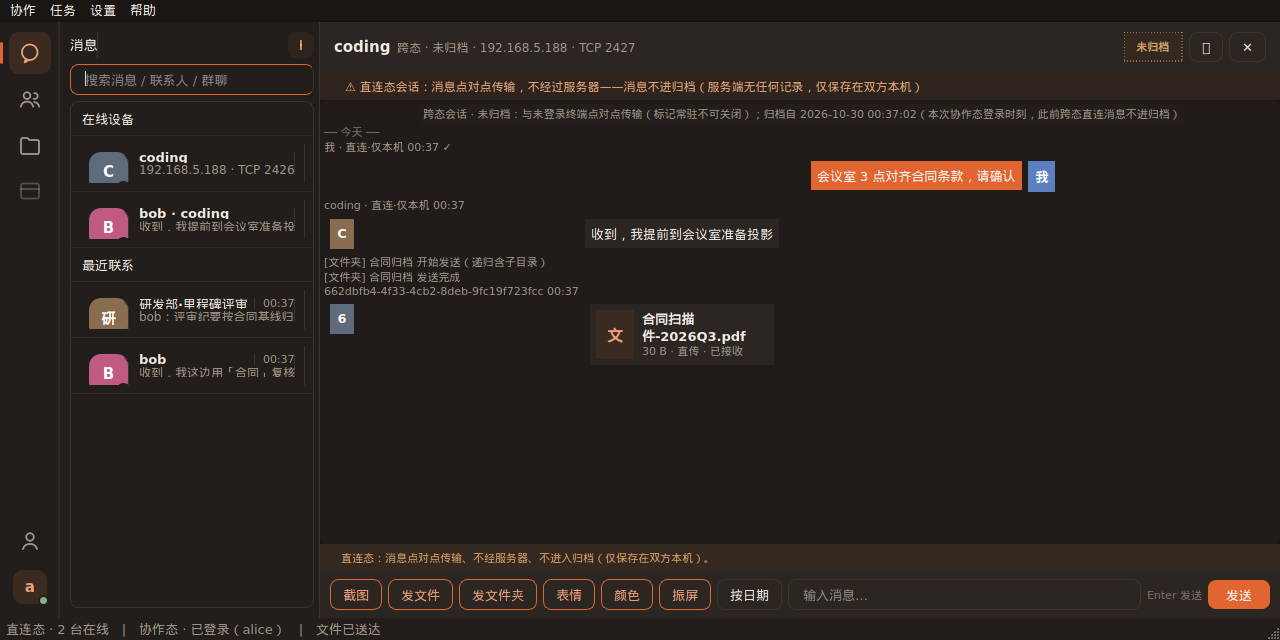
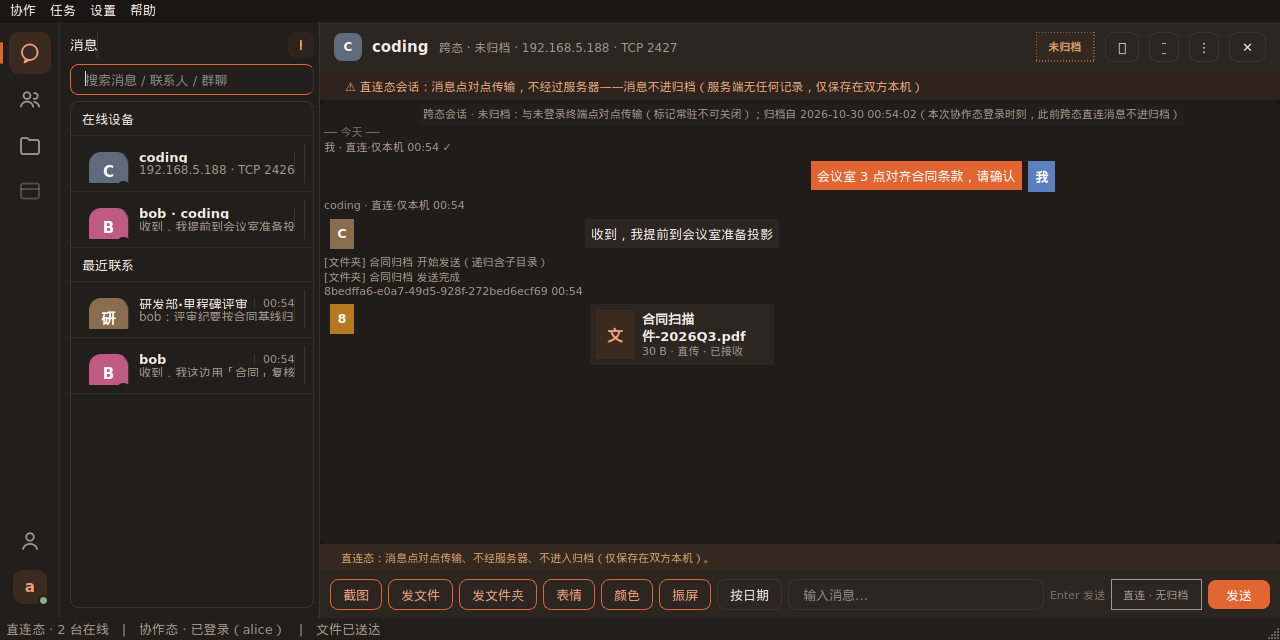
ui: align direct chat panel with desktop-direct-chat prototype

diff --git a/client/app/main_window.cpp b/client/app/main_window.cpp
@@ -991,6 +991,11 @@ void MainWindow::build_ui() {
   head_ = head;
   auto* head_layout = new QHBoxLayout(head);
   head_layout->setContentsMargins(14, 10, 14, 10);
+  head_layout->setSpacing(10);
+  // 会话头像（原型 .chat-head .avatar.sm 28px 首字）：随会话与主题重刷
+  chat_avatar_ = new QLabel(head);
+  chat_avatar_->setFixedSize(28, 28);
+  chat_avatar_->setAlignment(Qt::AlignCenter);
   chat_title_ = new QLabel(QStringLiteral("直连态"), head);
   chat_meta_ = new QLabel(QStringLiteral("未选择设备"), head);
   auto* local_badge = new QLabel(QStringLiteral("本机保存"), head);
@@ -1040,11 +1045,68 @@ void MainWindow::build_ui() {
   close_chat_btn->setToolTip(QStringLiteral("关闭会话（回到列表态）"));
   connect(close_chat_btn, &QPushButton::clicked, this,
           &MainWindow::close_chat);
+  // 头部动作位（原型 .ch-actions 文件/更多）：文件走生产发文件路径；
+  // 更多＝既有会话操作菜单（按会话形态给真实项，不摆空钮）。语音无实现
+  // 不入面（台账近似项）
+  auto* head_file_btn = new QPushButton(QStringLiteral("📄"), head);
+  head_file_btn->setFlat(true);
+  head_file_btn->setFixedSize(30, 30);
+  head_file_btn->setCursor(Qt::PointingHandCursor);
+  head_file_btn->setToolTip(QStringLiteral("发送文件（点对点）"));
+  connect(head_file_btn, &QPushButton::clicked, this,
+          [this] { file_btn_->click(); });
+  auto* head_more_btn = new QPushButton(QStringLiteral("⋮"), head);
+  head_more_btn->setFlat(true);
+  head_more_btn->setFixedSize(30, 30);
+  head_more_btn->setCursor(Qt::PointingHandCursor);
+  head_more_btn->setToolTip(QStringLiteral("更多会话操作"));
+  connect(head_more_btn, &QPushButton::clicked, this, [this, btn = head_more_btn] {
+    QMenu menu(this);
+    const QString kind = current_kind_;
+    if (kind == QStringLiteral("group")) {
+      const quint64 gid = current_group_id();
+      if (gid) {
+        connect(menu.addAction(QStringLiteral("群资料…")),
+                &QAction::triggered, this,
+                [this, gid] { group_profile_dialog(gid); });
+        connect(menu.addAction(QStringLiteral("拉人进群…")),
+                &QAction::triggered, this,
+                [this, gid] { group_invite_dialog(gid); });
+        connect(menu.addAction(QStringLiteral("群公告编辑…")),
+                &QAction::triggered, this,
+                [this, gid] { group_announce_dialog(gid); });
+        connect(menu.addAction(QStringLiteral("导出群记录…")),
+                &QAction::triggered, this,
+                [this, gid] { group_record_export_dialog(gid); });
+      }
+      connect(menu.addAction(QStringLiteral("群工具…")), &QAction::triggered,
+              this, [this] {
+                if (!group_tools_dialog_) {
+                  group_tools_dialog_ = new GroupToolsDialog(this);
+                  group_tools_dialog_->setAttribute(Qt::WA_DeleteOnClose);
+                }
+                group_tools_dialog_->show();
+                group_tools_dialog_->raise();
+                group_tools_dialog_->activateWindow();
+              });
+    } else {
+      QAction* nudge = menu.addAction(QStringLiteral("窗口抖动"));
+      connect(nudge, &QAction::triggered, this, [this] { nudge_btn_->click(); });
+      QAction* by_date = menu.addAction(QStringLiteral("按日期查看…"));
+      connect(by_date, &QAction::triggered, this, [this] { date_btn_->click(); });
+      QAction* search = menu.addAction(QStringLiteral("搜索本机记录…"));
+      connect(search, &QAction::triggered, this, [this] { chat_search_btn_->click(); });
+    }
+    menu.exec(btn->mapToGlobal(QPoint(0, btn->height())));
+  });
+  head_layout->addWidget(chat_avatar_);
   head_layout->addWidget(chat_title_);
   head_layout->addWidget(chat_meta_);
   head_layout->addStretch();
   head_layout->addWidget(local_badge);
   head_layout->addWidget(chat_search_btn);
+  head_layout->addWidget(head_file_btn);
+  head_layout->addWidget(head_more_btn);
   head_layout->addWidget(close_chat_btn);
 
   // 「未归档」语义标记：常驻不可关（留痕铁律的界面表达）；
@@ -1182,8 +1244,12 @@ void MainWindow::build_ui() {
   enter_hint->setStyleSheet(
       QStringLiteral("color:%1; font-size:11px;")
           .arg(ThemeManager::instance().tokens().text_muted.name()));
+  // 未归档口径小胶囊（原型 .input-foot .pill-outline「直连 · 无归档」）：
+  // 随形态换字，归档会话不挂
+  noarch_pill_ = new QLabel(input_row);
   input_layout->addWidget(input_box_, 1);
   input_layout->addWidget(enter_hint);
+  input_layout->addWidget(noarch_pill_);
   input_layout->addWidget(send_btn_);
 
   // 输入区固定说明条（原型 .input-note）：随形态换文案（update_banner 同
@@ -4020,6 +4086,21 @@ void MainWindow::set_autostart(bool on) {
 // 「消息不进归档」——切换与降级共用这一条提示（A7、A11 界面口径）。
 // 平台-7 降级显式化：DEGRADED 压过跨态（服务端不可达对本会话恒真，
 // 是更具体的口径——跨态细节由会话标记承载）；输入框提示随态同步。
+void MainWindow::update_chat_avatar() {
+  if (!chat_avatar_) return;
+  if (chat_avatar_src_.isEmpty()) {
+    chat_avatar_->clear();
+    chat_avatar_->setStyleSheet(QString());
+    return;
+  }
+  // 原型 .avatar.sm：28px 圆角 8、底＝名源哈希色、字＝on_brand 700
+  chat_avatar_->setText(avatar_initial(chat_avatar_src_));
+  chat_avatar_->setStyleSheet(
+      QStringLiteral("background:%1; color:%2; font-weight:700; "
+                     "font-size:12px; border-radius:8px;")
+          .arg(avatar_hue(chat_avatar_src_).name(), tk().on_brand.name()));
+}
+
 void MainWindow::update_banner() {
   // 协作单聊与服务端群聊都走服务端转发归档（T4.1 后者同口径）
   const bool collab_session =
@@ -4124,6 +4205,26 @@ void MainWindow::update_banner() {
                          "font-weight:700;")
               .arg(t.warning_wash.name(), t.warning.name(), t.warning.name()));
       local_badge_->show();
+    }
+  }
+  // 输入区未归档胶囊（原型 .input-foot .pill-outline）：文案随形态，
+  // 归档会话不挂
+  if (noarch_pill_) {
+    if (collab_session || current_peer_.isEmpty()) {
+      noarch_pill_->clear();
+      noarch_pill_->setStyleSheet(QString());
+    } else {
+      noarch_pill_->setText(
+          collab_degraded_
+              ? QStringLiteral("降级 · 未归档")
+              : (current_kind_ == QStringLiteral("direct") &&
+                         is_cross_state(current_peer_)
+                     ? QStringLiteral("跨态 · 未归档")
+                     : QStringLiteral("直连 · 无归档")));
+      noarch_pill_->setStyleSheet(
+          QStringLiteral("color:%1; border:1px solid %1; border-radius:999px; "
+                         "padding:2px 8px; font-size:11px;")
+              .arg(t.text_muted.name()));
     }
   }
 }
@@ -4783,17 +4884,21 @@ void MainWindow::open_chat(const QString& kind, const QString& id) {
 
   const bool collab = kind == QStringLiteral("collab");
   const bool group = kind == QStringLiteral("group");
+  QString avatar_src; // 头像取字源（原型 .chat-head .avatar.sm 首字）
   if (collab) {
     chat_title_->setText(id);
     chat_meta_->setText(QStringLiteral("%1 · 协作态 · 消息进入服务端归档")
                             .arg(id));
+    avatar_src = id;
   } else if (group) {
     // 服务端群会话（T4.1）：标题群名，公告与成员数入 meta
     const quint64 gid = id.mid(QStringLiteral("group:").size()).toULongLong();
     const GroupEntry g = groups_.value(gid);
-    chat_title_->setText(g.name.isEmpty()
-                             ? QStringLiteral("群 %1").arg(gid)
-                             : g.name);
+    const QString gname = g.name.isEmpty()
+                              ? QStringLiteral("群 %1").arg(gid)
+                              : g.name;
+    chat_title_->setText(gname);
+    avatar_src = gname;
     QString meta = QStringLiteral("%1 人 · 群 %2 · 协作态 · 消息进入服务端归档")
                        .arg(g.members.size())
                        .arg(gid);
@@ -4816,10 +4921,16 @@ void MainWindow::open_chat(const QString& kind, const QString& id) {
         QStringLiteral("%1 台设备 · 点对点扇出 · 消息不进归档；对端回复落在"
                        "与其的单聊会话")
             .arg(dgroup_members_.value(id).size()));
+    avatar_src = dgroup_title(id);
   } else {
     const Peer p = direct_engine_.peer(id.toStdString());
     const QString name = p.name.empty() ? id.left(8) : QString::fromStdString(p.name);
-    chat_title_->setText(name);
+    // 原型行名「人名 · 设备名」：对端登录账号即人名位（未登录＝纯设备名）
+    const QString account = QString::fromStdString(p.account);
+    chat_title_->setText(account.isEmpty()
+                             ? name
+                             : QStringLiteral("%1 · %2").arg(account, name));
+    avatar_src = account.isEmpty() ? name : account;
     // 平台-7：降级态 meta 固定「已降级 · 未归档」前缀（服务端不可达对本
     // 会话恒真，压过跨态——更具体的口径）；T4.2 跨态次之（A7）
     if (collab_degraded_) {
@@ -4836,6 +4947,8 @@ void MainWindow::open_chat(const QString& kind, const QString& id) {
               .arg(p.address.toString(), QString::number(p.tcp_port)));
     }
   }
+  chat_avatar_src_ = avatar_src;
+  update_chat_avatar();
   update_banner();
 
   // 需求批⑧：筛选态与挂起跳转只属于当前会话——换会话即复位
@@ -4892,9 +5005,9 @@ void MainWindow::render_open_history() {
               .arg(esc(chat_title_->text()))
               .arg(dgroup_members_.value(id).size()));
     } else {
+      // 原型 .sys-hint 胶囊口径：发现方式＋不归档（2026-10-30 对齐文案）
       append_system_line(
-          QStringLiteral("已与 %1 建立点对点会话 · 本对话不归档")
-              .arg(esc(chat_title_->text())));
+          QStringLiteral("已通过 UDP 广播发现对方 · 本对话不归档"));
     }
   }
   for (const StoredMessage& m : hist) {
@@ -5324,8 +5437,14 @@ void MainWindow::apply_theme_styles() {
              t.selection.name(), t.text.name()));
   }
   if (head_) {
+    // 原型 .ch-actions .icon-btn：30px 圆角 8 透明描边、悬停浮面底
     head_->setStyleSheet(
-        QStringLiteral("background:%1;").arg(t.surface_raised.name()));
+        QStringLiteral(
+            "background:%1;"
+            "QPushButton { border:none; border-radius:8px; color:%2; }"
+            "QPushButton:hover { background:%3; }")
+            .arg(t.surface_raised.name(), t.text_muted.name(),
+                 t.surface_alt.name()));
   }
   if (chat_title_) {
     chat_title_->setStyleSheet(
@@ -5336,6 +5455,7 @@ void MainWindow::apply_theme_styles() {
     chat_meta_->setStyleSheet(
         QStringLiteral("color:%1; font-size:12px;").arg(t.text_muted.name()));
   }
+  update_chat_avatar(); // on_brand 随主题，头像字色须重取
   if (local_badge_) {
     local_badge_->setStyleSheet(
         QStringLiteral("background:%1; color:%2; border-radius:8px; "

diff --git a/client/app/main_window.hpp b/client/app/main_window.hpp
@@ -363,6 +363,7 @@ private:
   void event_notify(bool enabled, SoundEvent ev, const QString& title,
                     const QString& text);
   void update_banner();          // 按当前形态切换归档提示条
+  void update_chat_avatar();     // 会话头像按源字＋当前令牌重刷（主题切换重取色）
   void seed_collab_peers();      // 登录后从本地库补入历史协作会话
   void show_collab_login_dialog();
   void show_conn_settings_dialog(); // 连接设置：域名解析覆盖（部署批 424）
@@ -567,8 +568,11 @@ private:
   QListWidget* device_list_{nullptr};
   QLabel* chat_title_{nullptr};
   QLabel* chat_meta_{nullptr};
+  QLabel* chat_avatar_{nullptr};   // 会话头像（原型 .chat-head .avatar.sm）
+  QString chat_avatar_src_;        // 头像取字源（随会话换；主题重刷取色用）
   QLabel* banner_{nullptr}; // 归档提示条（objectName: mode_banner）
   QLabel* input_note_{nullptr}; // 输入区固定说明条（原型 .input-note：随形态
+  QLabel* noarch_pill_{nullptr}; // 输入区未归档胶囊（原型 .input-foot .pill-outline）
                                 // 换文案；跨态/直连＝警示底，协作＝素底）
   QTextBrowser* chat_view_{nullptr};
   QLineEdit* input_box_{nullptr};

diff --git a/client/tests/test_screenshot.cpp b/client/tests/test_screenshot.cpp
@@ -315,7 +315,8 @@ void test_end_to_end() {
   CHECK(wait_until([&] { return window.has_direct_peer(peer_id); }, 10000));
 
   window.open_direct_peer(peer_id);
-  CHECK(window.chat_html().contains(QStringLiteral("点对点会话")));
+  // 系统胶囊行文案 2026-10-30 对齐原型 desktop-direct-chat.html（sys-hint）
+  CHECK(window.chat_html().contains(QStringLiteral("已通过 UDP 广播发现对方")));
 
   // 注入截屏（测试缝：跳过真实取屏）→ 标注窗出现
   QPixmap fake(1200, 800);
